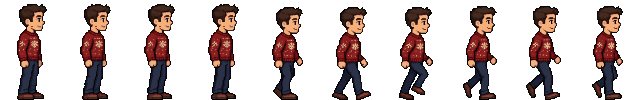
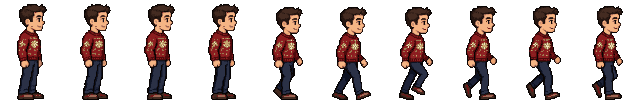
pilot: pasada 2 — paleta cream, snowflake limpio, verify OK
- Remap global (16 substituciones) consolida 30 → 21 colores en 10 frames
- Añade rampa cream (#F0E4C0/#C8A870/#9A7A50) para el copo de nieve del jersey
- draw_rows en área x=18-45,y=35-56 de los 10 frames elimina contaminación
  de skin tones (#9E6553/#C98F73) en el jersey chest
- verify_adulto96.py: MAX_COLORS 32→28, check huérfanos, check skin-en-jersey
- v1 backup: adulto96_v1.aseprite/.png/.json
- docs: sección "Pasada 2 de limpieza" con paleta, causa raíz y métricas

diff --git a/assets/pilot_aseprite/scripts/verify_adulto96.py b/assets/pilot_aseprite/scripts/verify_adulto96.py
@@ -7,9 +7,16 @@ WORK = Path(__file__).parent.parent / "work"
 SHEET = Path(__file__).parent.parent / "adulto96_sheet.png"
 SHEET_JSON = Path(__file__).parent.parent / "adulto96_sheet.json"
 CANVAS_W, CANVAS_H = 64, 100
-MAX_COLORS = 32
+MAX_COLORS = 28  # pasada-2 palette: 5 skin + 4 hair + 5 jersey + 3 cream + 4 denim + 4 boots + 3 outline
 IDLE_H_MIN, IDLE_H_MAX = 93, 100   # idle frames typically 96px
 WALK_H_MIN, WALK_H_MAX = 88, 100   # walk frames slightly shorter
+
+# Skin shadow/mid colors that must NOT appear in the jersey chest (snowflake) area.
+# These were the contamination fixed in pasada-2.
+SKIN_CONTAMINATION = {
+    (158, 101, 83),  # #9E6553  skin deep-shadow
+    (201, 143, 115), # #C98F73  skin mid-shadow
+}
 
 errors = []
 
@@ -42,6 +49,32 @@ for i in range(1, 11):
     # collect opaque colors
     opaque = set((r, g, b) for r, g, b, a in pix if a == 255)
     all_colors |= opaque
+    # orphan pixels: opaque with all 4 cardinal neighbors transparent
+    alpha_grid = [[img.getpixel((x, y))[3] for x in range(w)] for y in range(h)]
+    orphans = []
+    for y in range(h):
+        for x in range(w):
+            if alpha_grid[y][x] == 255:
+                neighbors = [
+                    alpha_grid[y-1][x] if y > 0 else 0,
+                    alpha_grid[y+1][x] if y < h-1 else 0,
+                    alpha_grid[y][x-1] if x > 0 else 0,
+                    alpha_grid[y][x+1] if x < w-1 else 0,
+                ]
+                if all(n == 0 for n in neighbors):
+                    orphans.append((x, y))
+    if orphans:
+        errors.append(f"frame_{i:02d}.png has {len(orphans)} orphan pixels (isolated opaque): {orphans[:5]}")
+    # skin shadow/mid must not appear in jersey chest (snowflake) area x=18-44, y=38-57
+    # (cols 45+ excluded: arm pixels legitimately overlap the right jersey edge)
+    contamination_in_jersey = []
+    for cy in range(38, 58):
+        for cx in range(18, 45):
+            r2, g2, b2, a2 = img.getpixel((cx, cy))
+            if a2 == 255 and (r2, g2, b2) in SKIN_CONTAMINATION:
+                contamination_in_jersey.append((cx, cy, f"#{r2:02X}{g2:02X}{b2:02X}"))
+    if contamination_in_jersey:
+        errors.append(f"frame_{i:02d}.png skin contamination in jersey chest: {len(contamination_in_jersey)} px, e.g. {contamination_in_jersey[:3]}")
     # measure content bbox height
     xs = [x for x in range(w) for y in range(h) if img.getpixel((x, y))[3] == 255]
     ys = [y for x in range(w) for y in range(h) if img.getpixel((x, y))[3] == 255]
